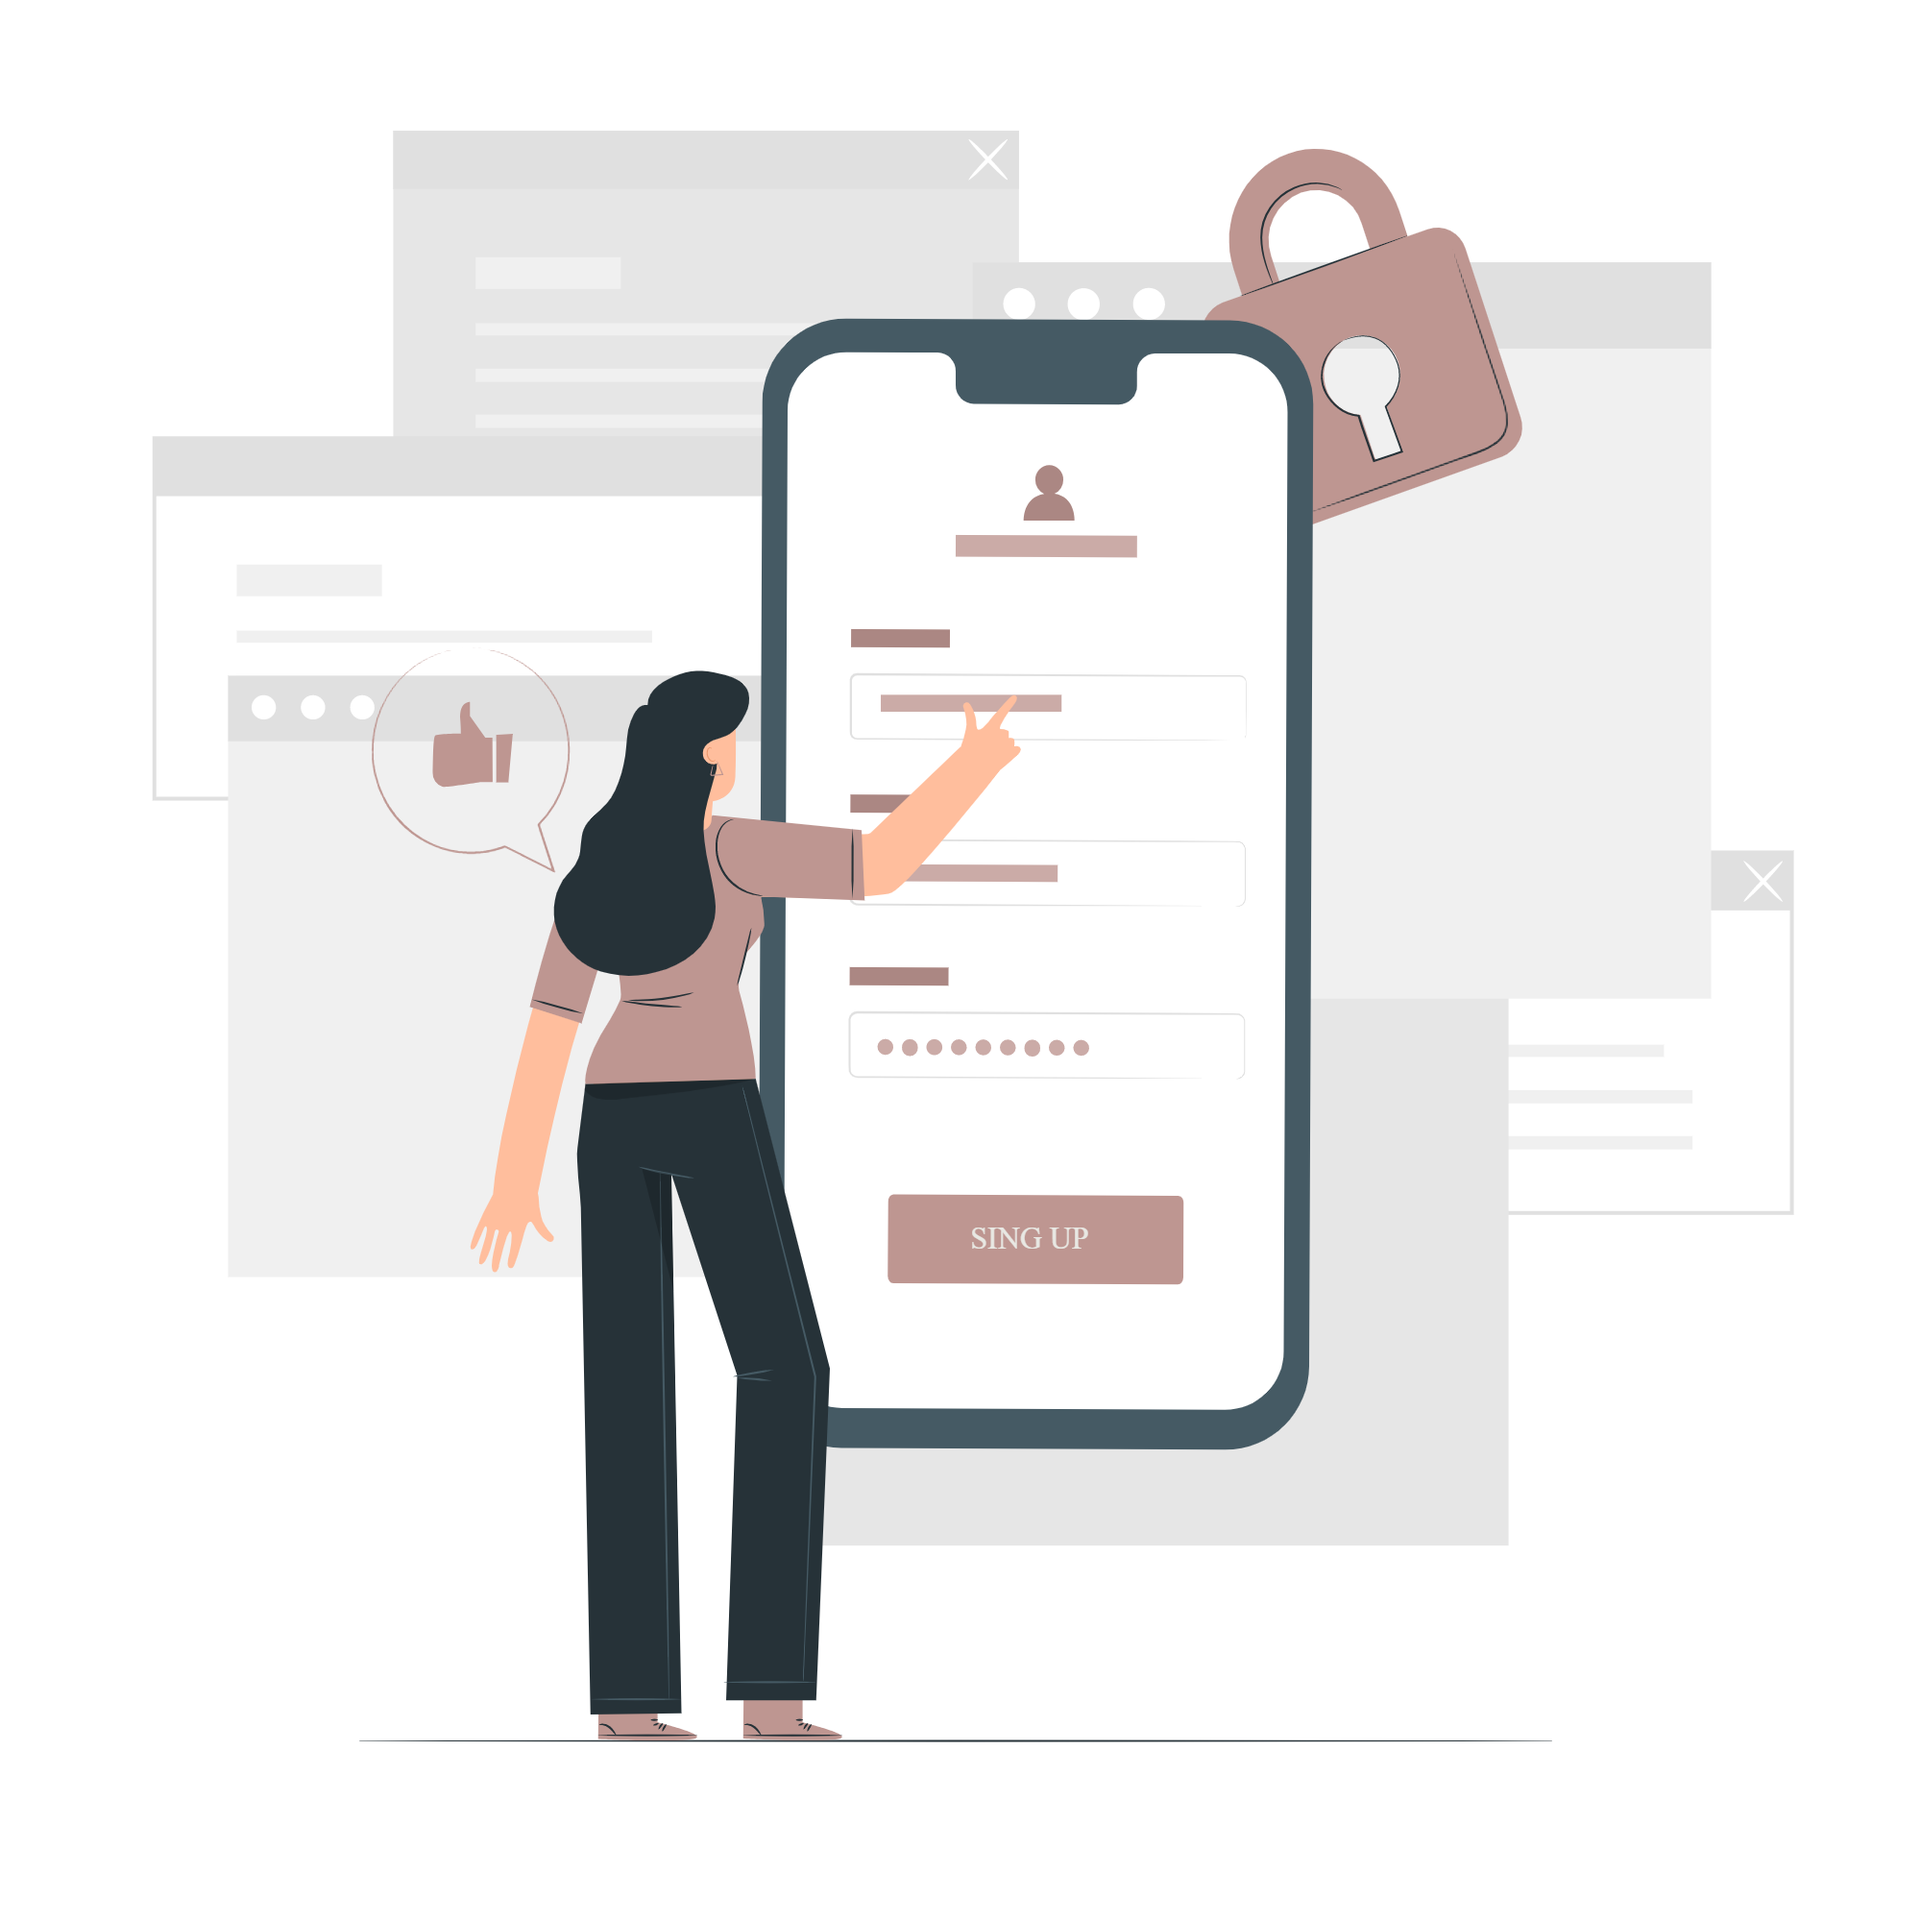
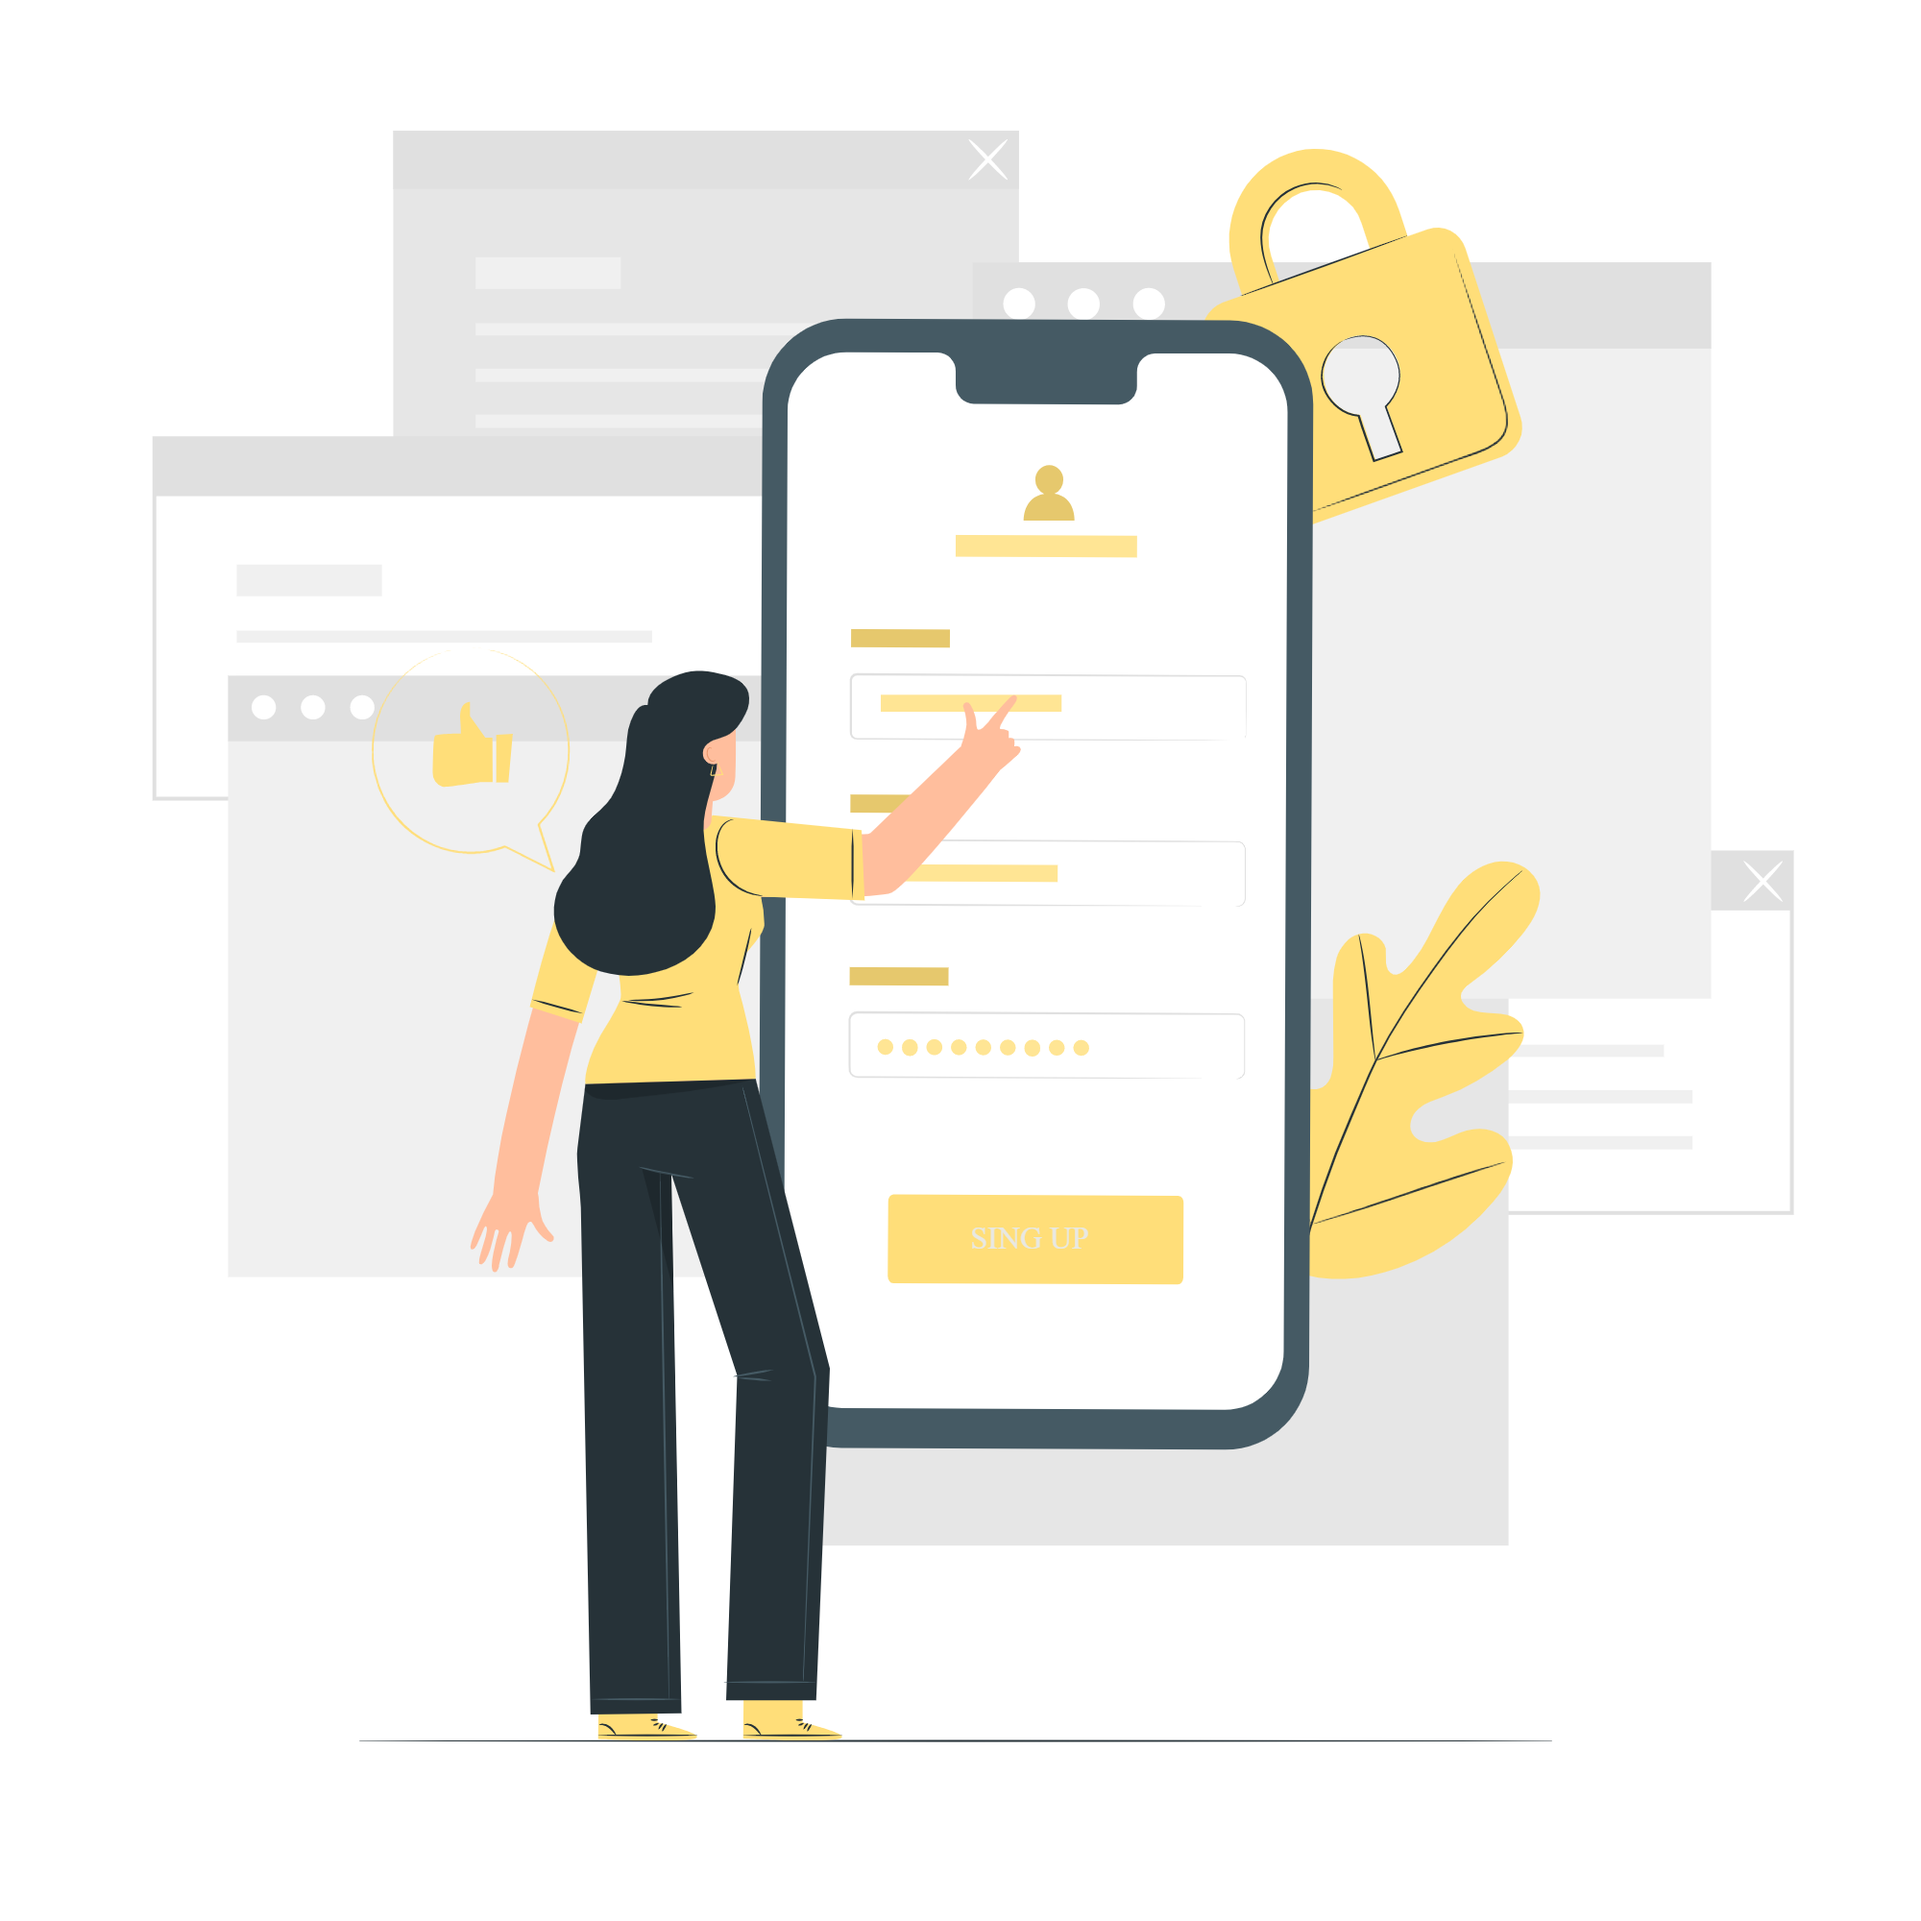
made 0 bugs

diff --git a/assets/css/after_accept_style.css b/assets/css/after_accept_style.css
@@ -4,14 +4,15 @@
     background-color: white;
 }
 :root{
-    --primary:#82817D;
+    --primary:#F6C445;
     --secondery:black;
+    --teritary:#FED87A;
 }
 .btn_secondary{
     height: 35px;
     width: 150px;
-    background-color:var(--primary);
-    color: var(--secondery);
+    background-color:var(--secondery);
+    color: white;
     border-width: 1px;
     margin: 75px 20px 0px 275px;
     border-radius: 5px;
@@ -20,8 +21,8 @@
 .btn_primary{
     height: 35px;
     width: 150px;
-    background-color:var(--secondery);
-    color:white;
+    background-color:var(--primary);
+    color:var(--secondery);
     border-width: 1px;
     margin: 75px 20px 0px 275px;
     border-radius: 5px;
@@ -59,7 +60,7 @@
     border-radius: 10px;
     width: 600px;
     height: 600px;
-    background-color: rgb(239, 234, 234);
+    background-color: rgb(255, 249, 219);
 }
 .main_right{
     display: flex;
@@ -69,7 +70,7 @@
     border-radius: 10px;
     width: 530px;
     height: 400px;
-    background-color: rgb(239, 234, 234);
+    background-color: rgb(253, 243, 195);
 }
 .img{
     margin: 110px 20px 0px 20px;

diff --git a/assets/css/Bproduct_detail_style.css b/assets/css/Bproduct_detail_style.css
@@ -5,13 +5,14 @@
     background-image: url(../img/);
 }
 :root{
-    --primary:#82817D;
+    --primary:#F6C445;
     --secondery:black;
+    --teritary:#FED87A;
 }
 .header{
     display: flex;
     justify-content: space-between;
-    background-color:var(--primary);
+    background-color:var(--teritary);
     color: var(--secondery);
     border-radius: 10px;
 }
@@ -242,6 +243,11 @@
      border-radius: 20px;
      width: 320px;
 }
+.similar:hover{
+    transform: translateY(-5px);
+    box-shadow: 5px 7px 20px gray;
+    transition: 0.5s;
+}
 .similar p{
     font-size: 25px;
 }
@@ -286,7 +292,7 @@ h4{
     display: flex;
     justify-content: center;
     align-content: center;
-    background-color: var(--primary);
+    background-color: var(--teritary);
     height: 100px;
 }
 .contact{

diff --git a/assets/css/sub_product_style.css b/assets/css/sub_product_style.css
@@ -3,8 +3,9 @@
     font-family: "Source Sans Pro", "Helvetica Neue", Arial, sans-serif;
 }
 :root{
-    --primary:#82817D;
+    --primary:#F6C445;
     --secondery:black;
+    --teritary:#FED87A;
 }
 .logo{
     width: 60px;
@@ -21,7 +22,7 @@
 .header{
     display:flex;
     justify-content:space-between ;
-    background-color:var(--primary);
+    background-color:var(--teritary);
     height:75px;
     border-radius: 10px;
 }
@@ -139,7 +140,7 @@ h4{
     display: flex;
     justify-content: center;
     align-content: center;
-    background-color: var(--primary);
+    background-color:var(--teritary);
     height: 100px;
 }
 .contact{

diff --git a/assets/css/home_page_style.css b/assets/css/home_page_style.css
@@ -3,8 +3,9 @@
     font-family: "Source Sans Pro", "Helvetica Neue", Arial, sans-serif;
 }
 :root{
-    --primary:#82817D;
+    --primary:#F6C445;
     --secondery:black;
+    --teritary:#FED87A;
 }
 .logo{
     width: 60px;
@@ -20,7 +21,7 @@
 }
 .header{
     display:flex;
-    background-color:var(--primary);
+    background-color:var(--teritary);
     height:75px;
     border-radius: 10px;
 }
@@ -236,7 +237,7 @@ h4{
     display: flex;
     justify-content: center;
     align-content: center;
-    background-color: var(--primary);
+    background-color:var(--teritary);
     height: 100px;
 }
 .contact{

diff --git a/assets/css/sell_style.css b/assets/css/sell_style.css
@@ -2,21 +2,12 @@
     width: 10px;
     height: 550px;
     font-family: "Source Sans Pro", "Helvetica Neue", Arial, sans-serif;
+    background-color: black;
 }
 .sell{
-    width: 1300px;
-    height: 850px;
+    width: 1000px;
+    height: 600px;
 }
 .img{
-    margin: 0px 0px 0px 50px;
-}
-.body p{
-    width: 310px;
-    font-size: 40px;
-    color: white;
-    position: relative;
-    bottom: 490px;
-    left: 545px;
-    transform: rotateZ('angle');
-    rotate: 16deg;
+    margin: 140px 0px 0px 225px;
 }

diff --git a/pages/Sign in/index.html b/pages/Sign in/index.html
@@ -13,7 +13,7 @@
     <main class="main">
         <div class="main-left">
             <div>
-                <img src="../../assets/img/illsuration/Login-amico.png" alt="logo" width="450px" height="450px">
+                <img src="../../assets/img/illsuration/Login-amico.png" alt="img" width="450px" height="450px">
             </div>
             <div class="left_content">
                 <a href="../Sign up/index.html" class="nav-link">Create an account</a>

diff --git a/assets/css/sign_up_style.css b/assets/css/sign_up_style.css
@@ -3,8 +3,9 @@
     font-family: "Source Sans Pro", "Helvetica Neue", Arial, sans-serif;
 }
 :root{
-    --primary:#82817D;
+    --primary:#F6C445;
     --secondery:black;
+    --teritary:#FED87A;
 }
 .header{
     display: flex;
@@ -76,9 +77,10 @@ i{
     margin: 40px 0px 0px 0px;
 }
 .right_content{
-    position: relative;
-    top: px;
     margin-top: 30px;
+}
+.main-left h1{
+    color:#fbbf26 ;
 }
 .agree{
     padding:30px 0px 0px 0px ; 

diff --git a/pages/Sign up/index.html b/pages/Sign up/index.html
@@ -55,7 +55,7 @@
     </div>  
     <div class="main-right">
         <div>
-           <img src="../../assets/img/illsuration/Mobile login-pana.png" width="450px" height="450px">
+           <img src="../../assets/img/illsuration/Mobile login-pana.png" alt="img" width="450px" height="450px">
         </div>
         <div class="left_content">
             <a href="../Sign in/index.html" class="nav-link">I am already member</a>

diff --git a/assets/css/sign_in_style.css b/assets/css/sign_in_style.css
@@ -4,8 +4,9 @@
     font-family: "Source Sans Pro", "Helvetica Neue", Arial, sans-serif;
 }
 :root{
-    --primary:#82817D;
+    --primary:#F6C445;
     --secondery:black;
+    --teritary:#FED87A;
 }
 .main{
     position: relative;
@@ -22,6 +23,9 @@
     display: flex;
     flex-direction: column;
     justify-content: center;
+}
+.main-right h1{
+    color:#fbbf26;
 }
 .main-right{
     width: 650px;

diff --git a/assets/css/add_product_style.css b/assets/css/add_product_style.css
@@ -2,13 +2,14 @@
     font-family: "Source Sans Pro", "Helvetica Neue", Arial, sans-serif;
 }
 :root{
-    --primary:#82817D;
+    --primary:#F6C445;
     --secondery:black;
+    --teritary:#FED87A;
 }
 .header{
     display:flex ;
     justify-content: space-between;
-    background-color:var(--primary);
+    background-color:var(--teritary);
     color: var(--secondery);
 }
 .header-content{

diff --git a/assets/css/product_list_style.css b/assets/css/product_list_style.css
@@ -3,13 +3,14 @@
     font-family: "Source Sans Pro", "Helvetica Neue", Arial, sans-serif;
 }
 :root{
-    --primary:#82817D;
+    --primary:#F6C445;
     --secondery:black;
+    --teritary:#FED87A;
 }
 .header{
     display: flex;
     justify-content: space-between;
-    background-color: var(--primary);
+    background-color:var(--teritary);
     color: var(--secondery);
 }
 .profile_img{

diff --git a/assets/css/Bid_list_style.css b/assets/css/Bid_list_style.css
@@ -3,13 +3,14 @@
     font-family: "Source Sans Pro", "Helvetica Neue", Arial, sans-serif;
 }
 :root{
-    --primary:#82817D;
+    --primary:#F6C445;
     --secondery:black;
+    --teritary:#FED87A;
 }
 .header{
     display: flex;
     justify-content: space-between;
-    background-color:var(--primary);
+    background-color:var(--teritary);
     color: var(--secondery);
 }
 .profile_img{
